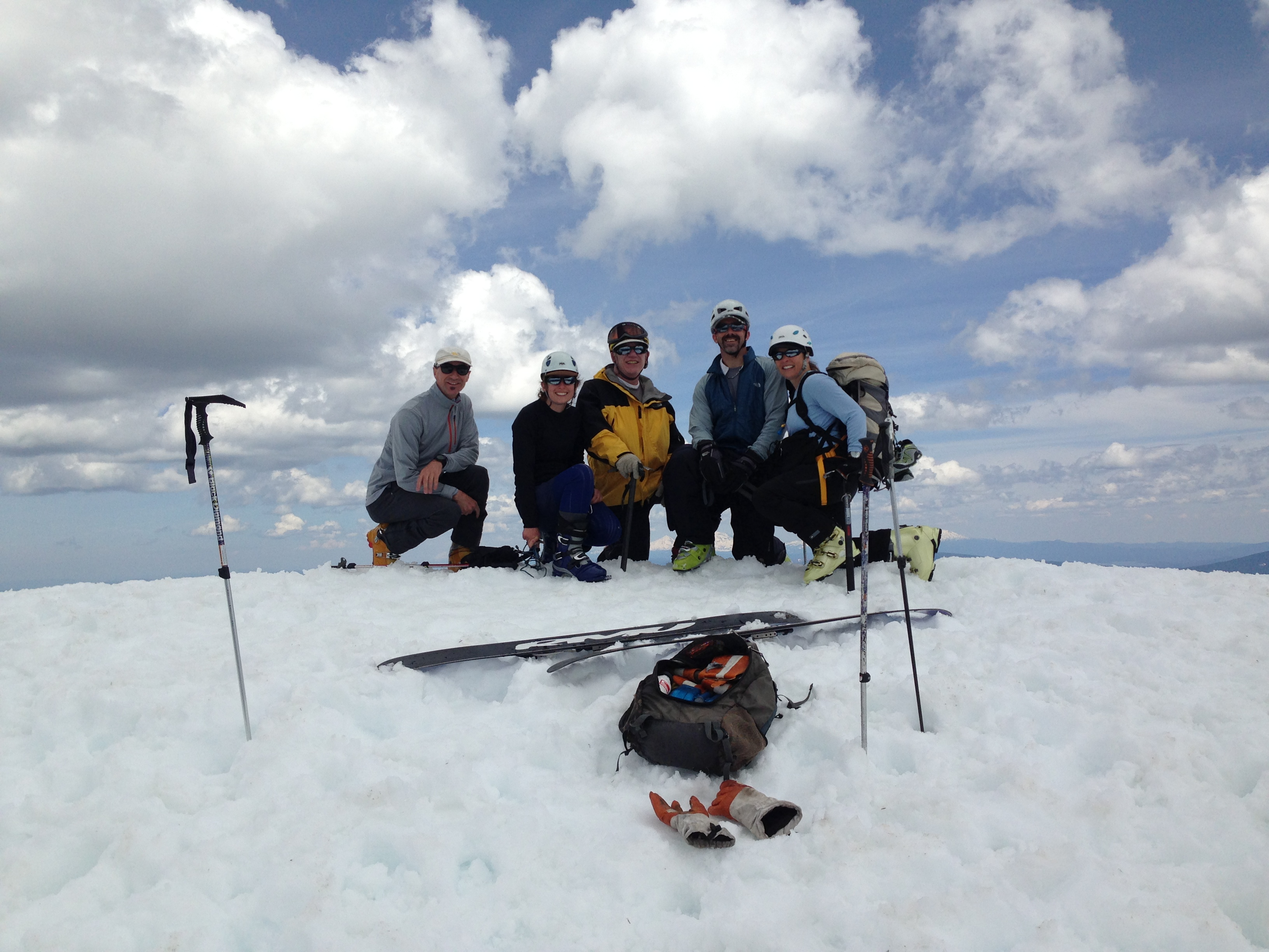
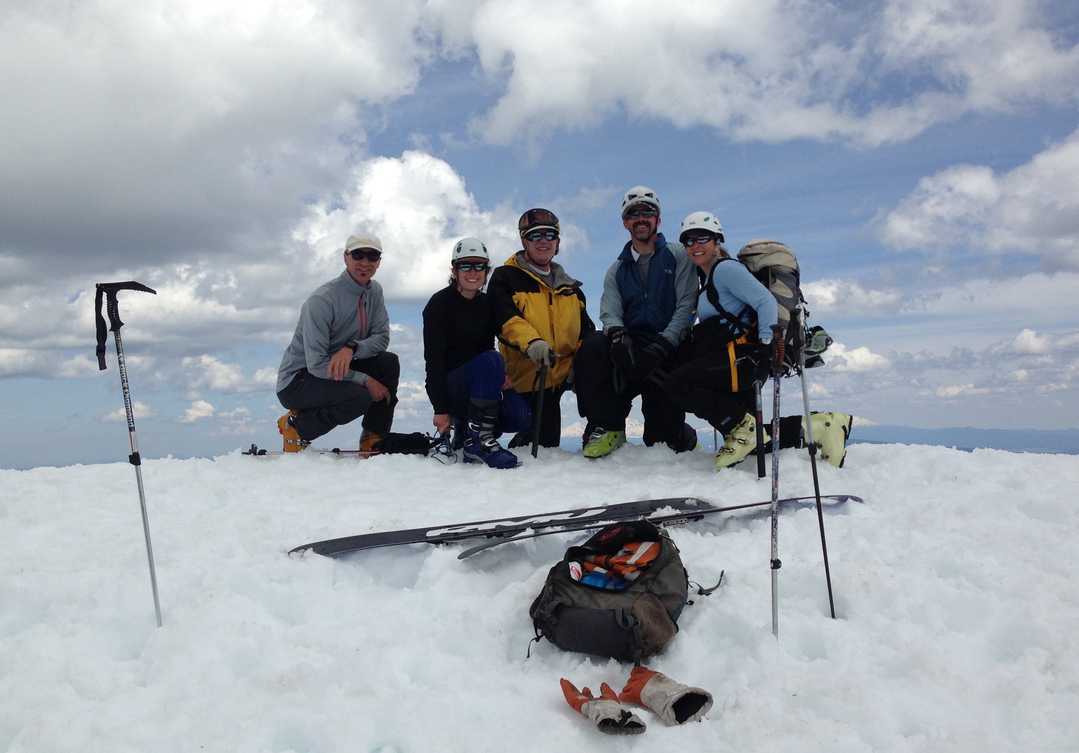
crop photo

diff --git a/src/app/home/home.component.css b/src/app/home/home.component.css
@@ -1,8 +1,8 @@
 div.home-page h1 {
   margin-top: 20px;
-  margin-bottom: 17px;
+  margin-bottom: 20px;
   text-align: center;
-  font-size: 4em;
+  font-size: 5em;
   font-weight: 300;
 }
 
